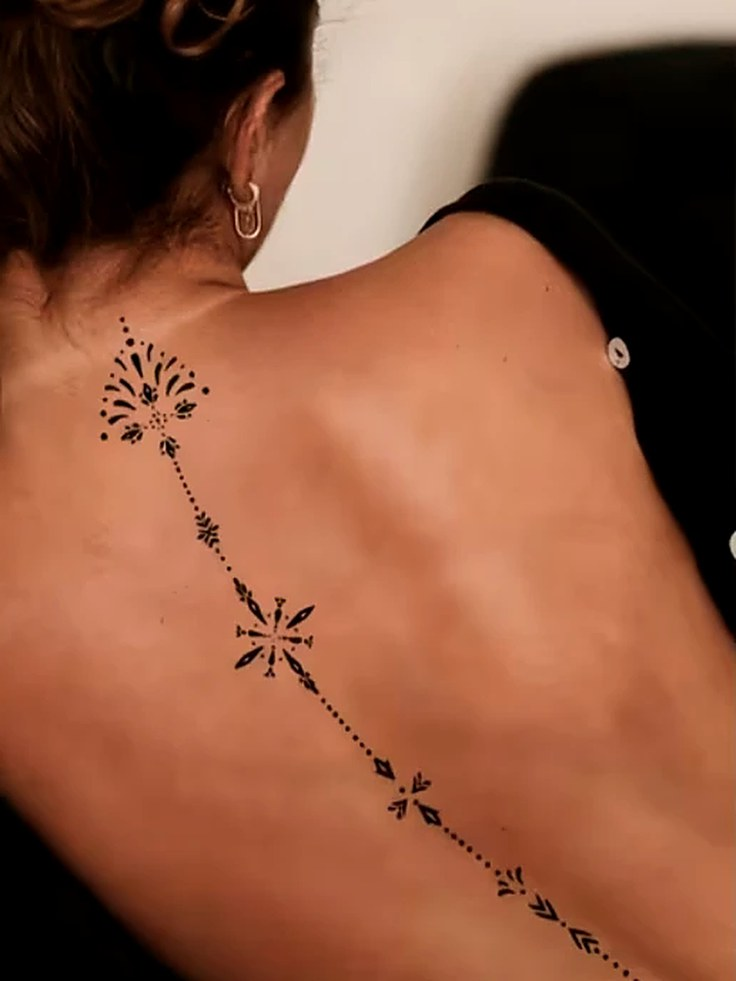
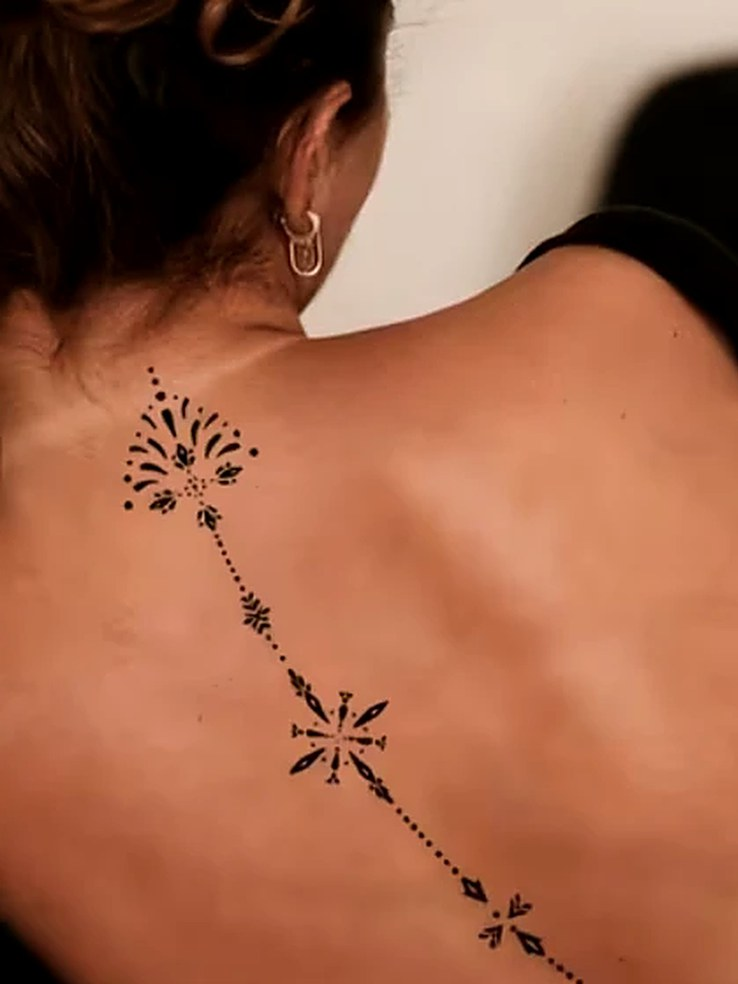
Centre the tattoo category photo

diff --git a/index.html b/index.html
@@ -1288,7 +1288,7 @@
                 </div>
             </a>
             <a href="tattoos.html" class="categories-card" style="transition-delay: 0.9s;">
-                <img src="assets/tattoos-category.jpg" alt="Fake tattoos" class="categories-image">
+                <img src="assets/tattoos-category.jpg?v=2" alt="Fake tattoos" class="categories-image">
                 <div class="categories-overlay">
                     <h3 class="categories-name" data-i18n="catTattoos">FAUX TATOUAGES</h3>
                     <p class="categories-count" data-category="tattoos"></p>
